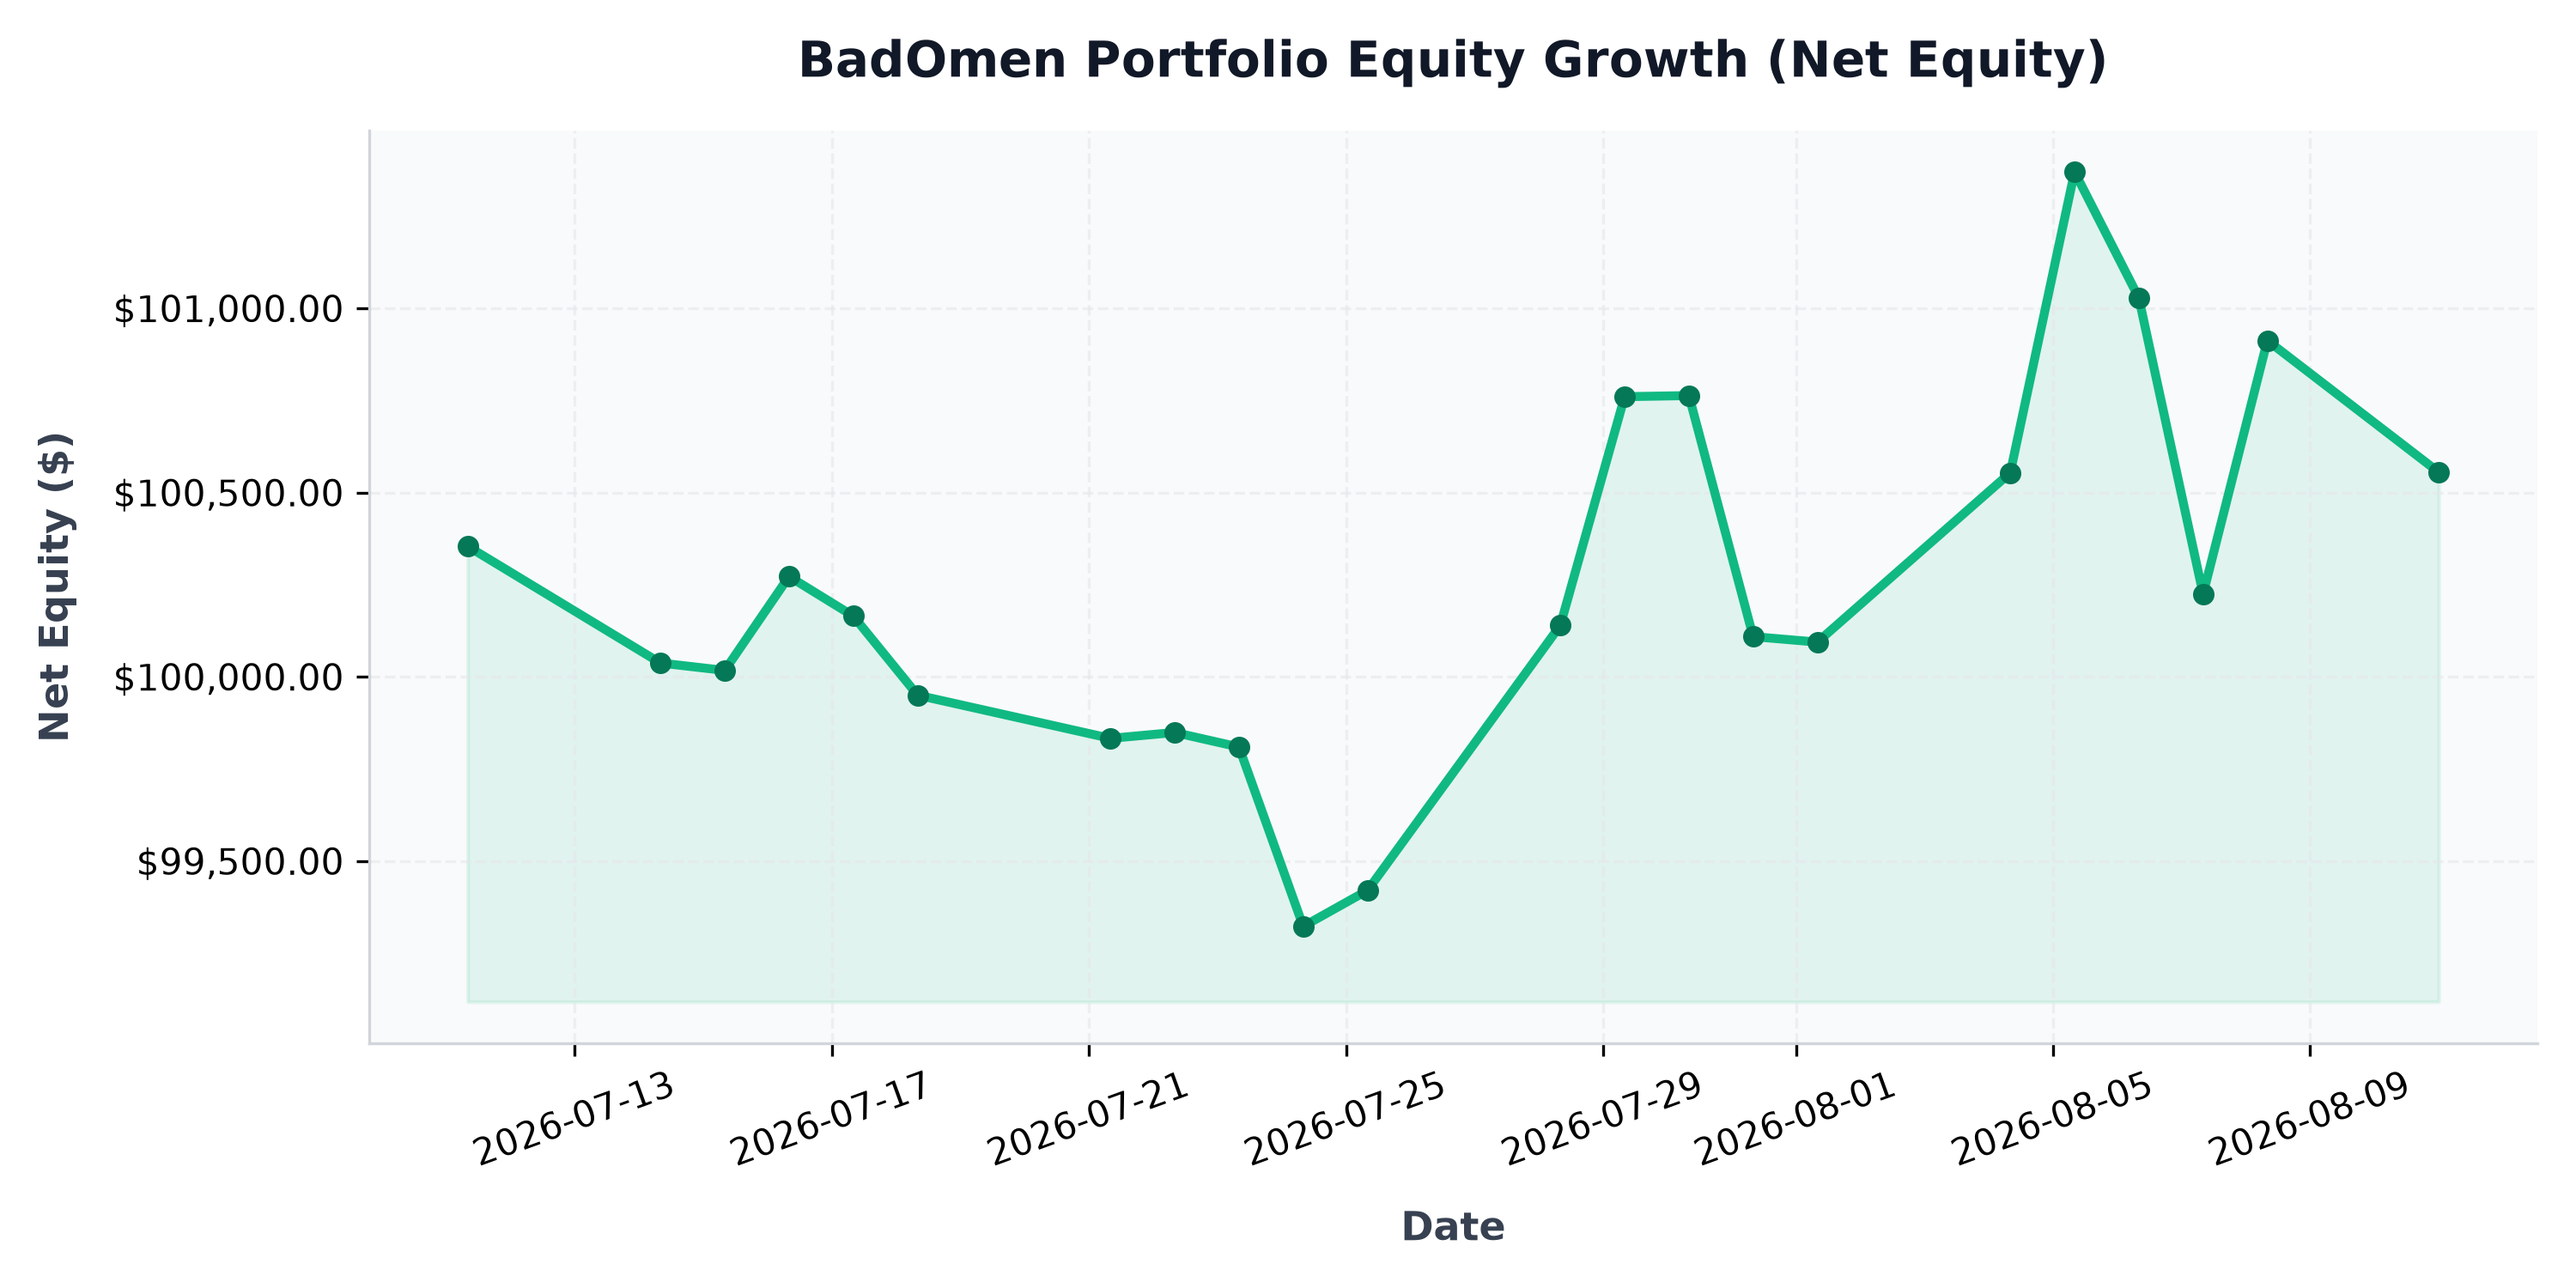
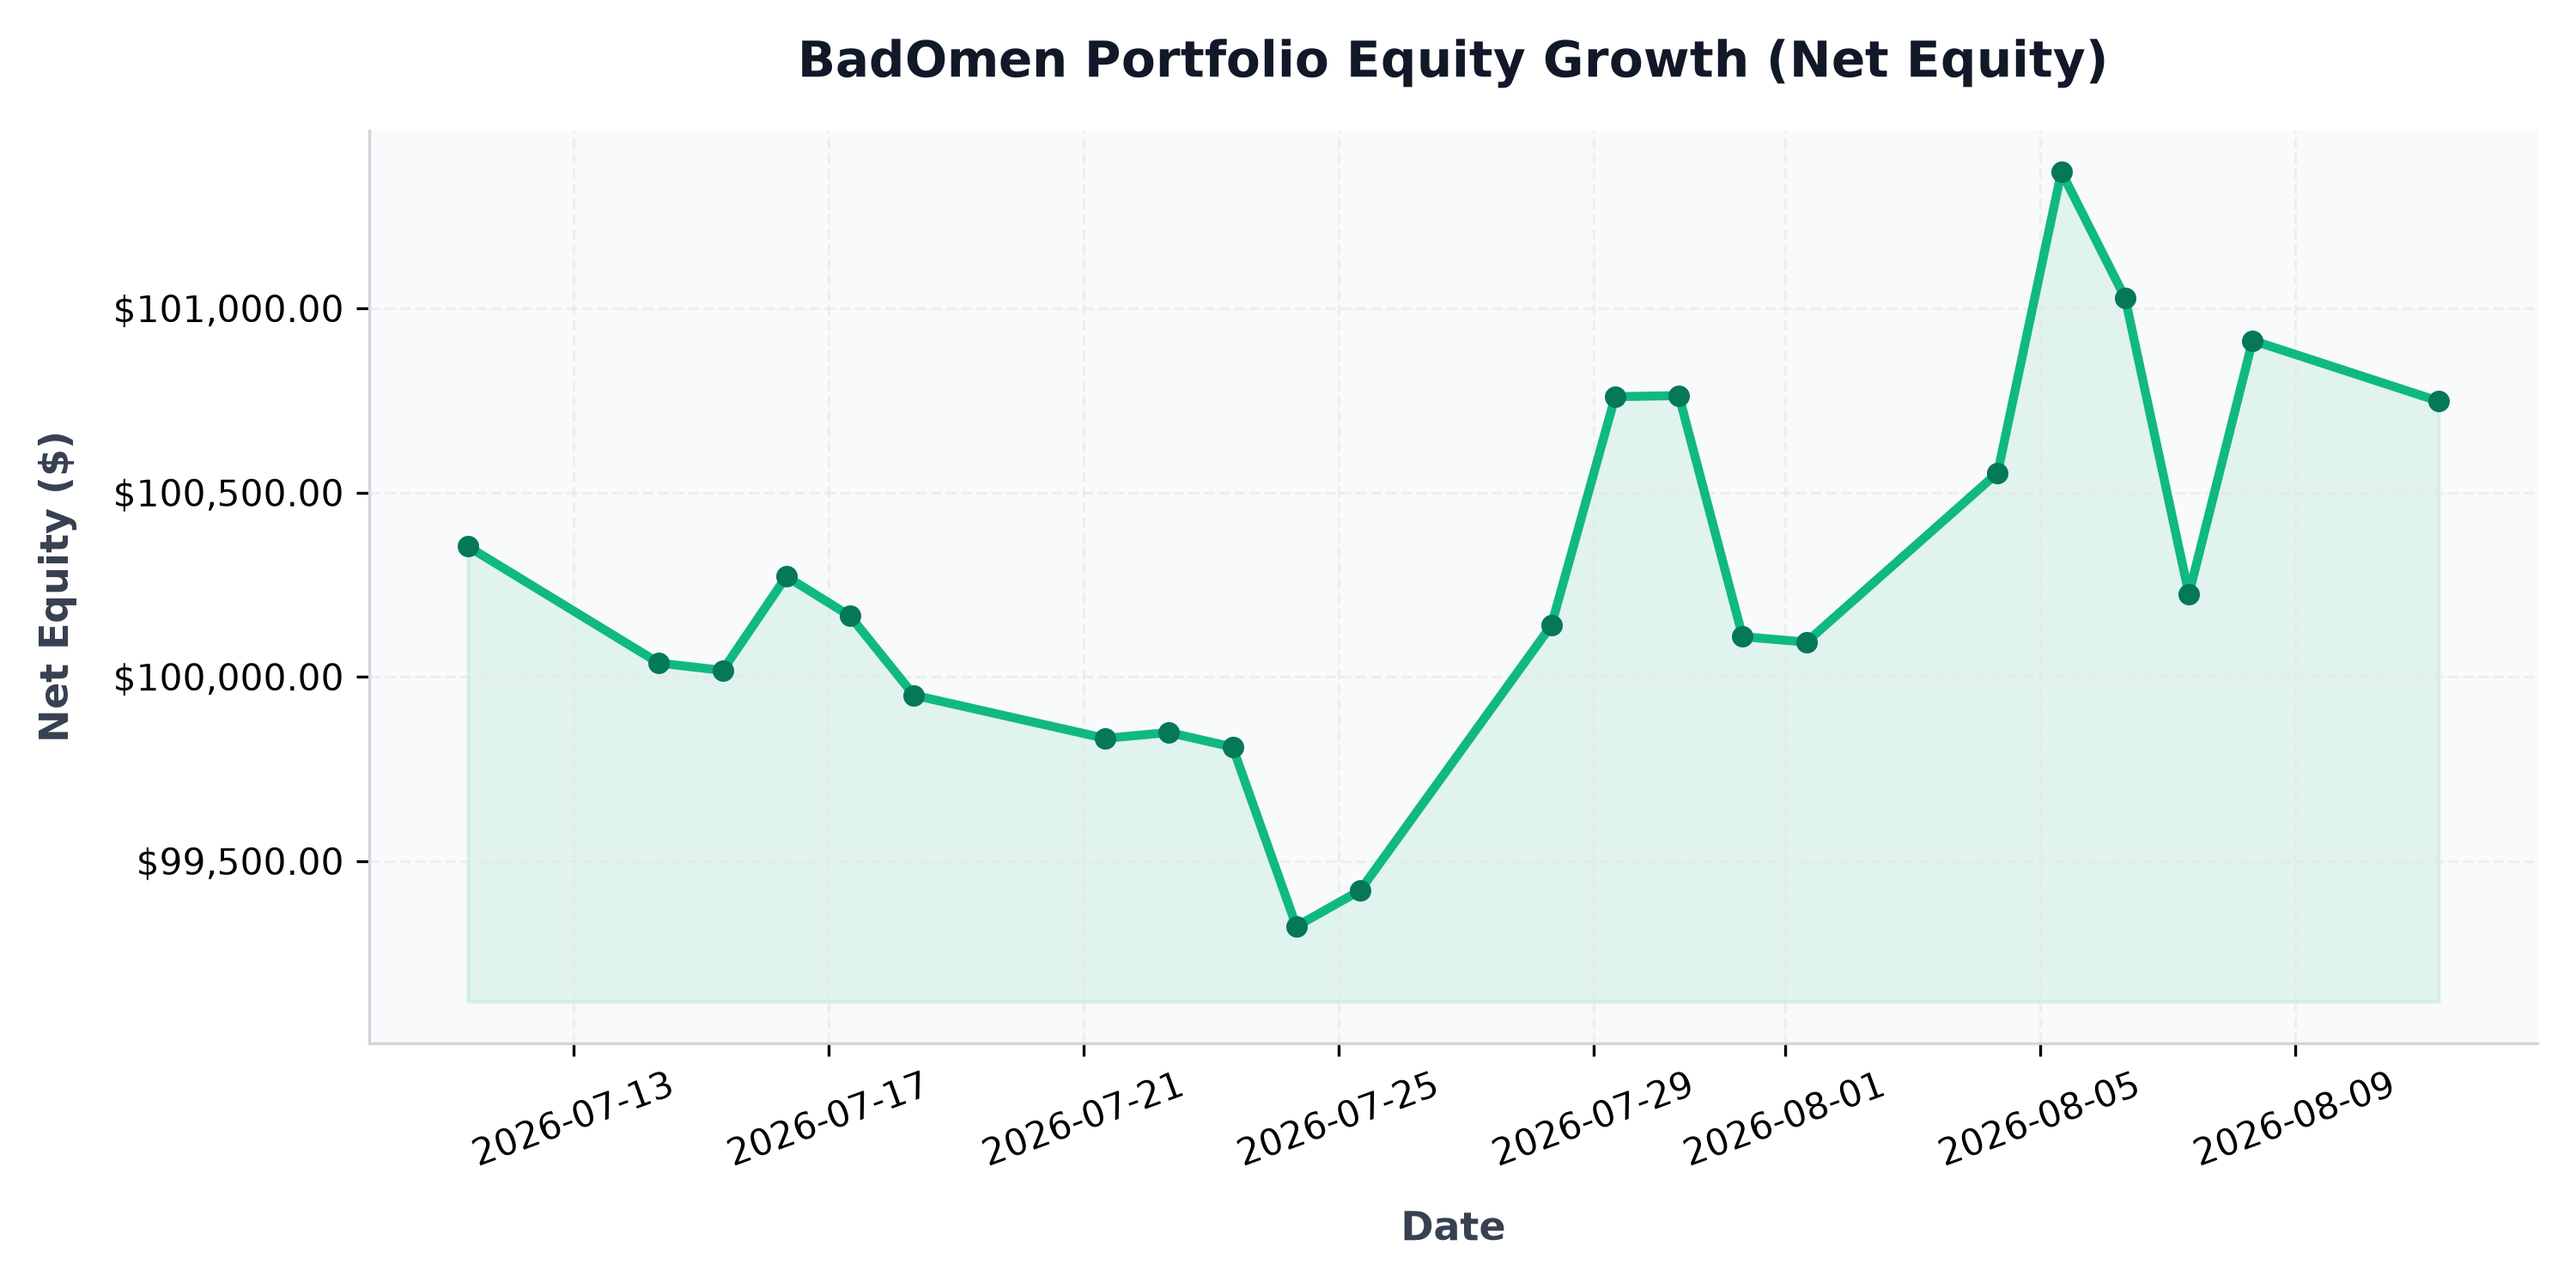
auto: daily portfolio status update - 2026-08-11 06:05:13

diff --git a/src/content/posts/portfolio-performance.md b/src/content/posts/portfolio-performance.md
@@ -1,6 +1,6 @@
 ---
 title: "BadOmen Algorithmic Portfolio Performance & PnL Report"
-pubDatetime: 2026-08-11T00:00:13.363967+08:00
+pubDatetime: 2026-08-11T06:05:12.995396+08:00
 description: "Live performance metrics, active holdings, and historic equity curve for the BadOmen automated paper trading portfolio."
 featured: true
 draft: false
@@ -16,11 +16,11 @@ Welcome to the live performance dashboard for **BadOmen**, our automated algorit
 ## 📊 Portfolio Summary
 | Performance Metric | Value | description |
 | :--- | :--- | :--- |
-| **Net Portfolio Equity** | **$100,555.09** | Total current liquidation value of cash and stock holdings |
-| **Total Unrealized P&L** | 🔴 **$-104.34** (-0.10%) | Total return of current open holdings |
+| **Net Portfolio Equity** | **$100,747.97** | Total current liquidation value of cash and stock holdings |
+| **Total Unrealized P&L** | 🟢 **+$88.91** (+0.09%) | Total return of current open holdings |
 | **Cash Balance** | $57,887.88 | Idle reserve currency available for limit orders |
-| **Buying Power** | $335,756.48 | Margin-backed buying power for entry allocations |
-| **Report Updated** | `2026-08-11 00:00:13 (SGT)` | Timestamp of daily execution and sync run |
+| **Buying Power** | $336,296.53 | Margin-backed buying power for entry allocations |
+| **Report Updated** | `2026-08-11 06:05:12 (SGT)` | Timestamp of daily execution and sync run |
 
 ## 📈 Net Equity Growth Curve
 The chart below illustrates the historical performance of the account starting from our baseline capital funding of $100,000.00.
@@ -35,34 +35,34 @@ The chart below illustrates the exposure of our currently held active positions 
 ## 💼 Current Position Holdings
 | Ticker | Industry | Shares Owned | Average Entry Cost | Current Price | Unrealized P&L | Return (%) |
 | :--- | :--- | :--- | :--- | :--- | :--- | :--- |
-| **AN** | Auto & Truck Dealerships | 5 | $188.51 | $208.34 | 🟢 +$99.16 | +10.52% |
-| **AVGO** | Semiconductors | 1 | $385.71 | $427.28 | 🟢 +$41.57 | +10.78% |
-| **BLBD** | Farm & Heavy Construction Machinery | 148 | $67.64 | $64.66 | 🔴 $-440.92 | -4.41% |
-| **BVN** | Other Precious Metals & Mining | 32 | $31.88 | $34.54 | 🟢 +$85.28 | +8.36% |
-| **CELH** | Beverages - Non-Alcoholic | 33 | $29.71 | $26.85 | 🔴 $-94.45 | -9.63% |
-| **CPRI** | Luxury Goods | 326 | $15.45 | $15.32 | 🔴 $-41.50 | -0.82% |
-| **DUOL** | Software - Application | 14 | $131.04 | $134.89 | 🟢 +$53.84 | +2.94% |
-| **FIS** | Information Technology Services | 23 | $41.79 | $42.41 | 🟢 +$14.38 | +1.50% |
-| **GDDY** | Software - Infrastructure | 6 | $76.21 | $91.19 | 🟢 +$89.88 | +19.66% |
-| **GDS** | Information Technology Services | 30 | $32.77 | $31.34 | 🔴 $-43.05 | -4.38% |
-| **GGAL** | Banks - Regional | 17 | $56.04 | $45.90 | 🔴 $-172.41 | -18.10% |
-| **GOOGL** | Internet Content & Information | 3 | $319.44 | $354.29 | 🟢 +$104.55 | +10.91% |
-| **GPI** | Auto & Truck Dealerships | 3 | $316.15 | $263.97 | 🔴 $-156.54 | -16.50% |
-| **HUBS** | Software - Application | 8 | $221.18 | $213.63 | 🔴 $-60.41 | -3.41% |
-| **ITRI** | Scientific & Technical Instruments | 12 | $81.80 | $103.24 | 🟢 +$257.28 | +26.21% |
-| **KBR** | Engineering & Construction | 27 | $36.23 | $38.38 | 🟢 +$57.97 | +5.93% |
-| **META** | Internet Content & Information | 1 | $568.17 | $599.70 | 🟢 +$31.53 | +5.55% |
-| **NESR** | Oil & Gas Equipment & Services | 34 | $28.74 | $34.43 | 🟢 +$193.46 | +19.80% |
-| **NU** | Banks - Regional | 85 | $11.60 | $13.93 | 🟢 +$197.75 | +20.06% |
-| **ON** | Semiconductors | 10 | $90.45 | $81.16 | 🔴 $-92.95 | -10.28% |
-| **ORCL** | Software - Infrastructure | 5 | $181.95 | $149.94 | 🔴 $-160.05 | -17.59% |
-| **PATH** | Software - Infrastructure | 38 | $10.25 | $15.30 | 🟢 +$192.09 | +49.32% |
-| **PYPL** | Credit Services | 17 | $56.05 | $58.62 | 🟢 +$43.60 | +4.58% |
-| **QCOM** | Semiconductors | 15 | $193.68 | $164.24 | 🔴 $-441.67 | -15.20% |
-| **SMCI** | Computer Hardware | 33 | $29.25 | $32.45 | 🟢 +$105.60 | +10.94% |
-| **T** | Telecom Services | 47 | $20.85 | $23.80 | 🟢 +$138.88 | +14.17% |
-| **WEN** | Restaurants | 257 | $8.02 | $7.33 | 🔴 $-179.34 | -8.70% |
-| **ZG** | Internet Content & Information | 31 | $31.35 | $33.68 | 🟢 +$72.13 | +7.42% |
+| **AN** | Auto & Truck Dealerships | 5 | $188.51 | $208.09 | 🟢 +$97.91 | +10.39% |
+| **AVGO** | Semiconductors | 1 | $385.71 | $422.00 | 🟢 +$36.29 | +9.41% |
+| **BLBD** | Farm & Heavy Construction Machinery | 148 | $67.64 | $65.33 | 🔴 $-341.76 | -3.41% |
+| **BVN** | Other Precious Metals & Mining | 32 | $31.88 | $34.58 | 🟢 +$86.56 | +8.49% |
+| **CELH** | Beverages - Non-Alcoholic | 33 | $29.71 | $27.16 | 🔴 $-84.24 | -8.59% |
+| **CPRI** | Luxury Goods | 326 | $15.45 | $15.43 | 🔴 $-5.64 | -0.11% |
+| **DUOL** | Software - Application | 14 | $131.04 | $135.55 | 🟢 +$63.11 | +3.44% |
+| **FIS** | Information Technology Services | 23 | $41.79 | $42.29 | 🟢 +$11.50 | +1.20% |
+| **GDDY** | Software - Infrastructure | 6 | $76.21 | $91.50 | 🟢 +$91.74 | +20.06% |
+| **GDS** | Information Technology Services | 30 | $32.77 | $31.50 | 🔴 $-38.10 | -3.88% |
+| **GGAL** | Banks - Regional | 17 | $56.04 | $46.42 | 🔴 $-163.53 | -17.16% |
+| **GOOGL** | Internet Content & Information | 3 | $319.44 | $357.26 | 🟢 +$113.46 | +11.84% |
+| **GPI** | Auto & Truck Dealerships | 3 | $316.15 | $265.55 | 🔴 $-151.80 | -16.00% |
+| **HUBS** | Software - Application | 8 | $221.18 | $215.85 | 🔴 $-42.65 | -2.41% |
+| **ITRI** | Scientific & Technical Instruments | 12 | $81.80 | $102.63 | 🟢 +$249.96 | +25.46% |
+| **KBR** | Engineering & Construction | 27 | $36.23 | $38.29 | 🟢 +$55.54 | +5.68% |
+| **META** | Internet Content & Information | 1 | $568.17 | $594.31 | 🟢 +$26.14 | +4.60% |
+| **NESR** | Oil & Gas Equipment & Services | 34 | $28.74 | $35.90 | 🟢 +$243.44 | +24.91% |
+| **NU** | Banks - Regional | 85 | $11.60 | $13.86 | 🟢 +$192.38 | +19.51% |
+| **ON** | Semiconductors | 10 | $90.45 | $80.00 | 🔴 $-104.55 | -11.56% |
+| **ORCL** | Software - Infrastructure | 5 | $181.95 | $149.85 | 🔴 $-160.50 | -17.64% |
+| **PATH** | Software - Infrastructure | 38 | $10.25 | $15.50 | 🟢 +$199.50 | +51.22% |
+| **PYPL** | Credit Services | 17 | $56.05 | $58.79 | 🟢 +$46.58 | +4.89% |
+| **QCOM** | Semiconductors | 15 | $193.68 | $162.95 | 🔴 $-461.02 | -15.87% |
+| **SMCI** | Computer Hardware | 33 | $29.25 | $31.75 | 🟢 +$82.50 | +8.55% |
+| **T** | Telecom Services | 47 | $20.85 | $24.01 | 🟢 +$148.74 | +15.18% |
+| **WEN** | Restaurants | 257 | $8.02 | $7.30 | 🔴 $-186.87 | -9.06% |
+| **ZG** | Internet Content & Information | 31 | $31.35 | $34.07 | 🟢 +$84.22 | +8.67% |
 
 ## 🔴 Recent Realized Trades
 | Ticker | Shares Sold | Entry Price | Exit Price | Strategy Trigger | Realized Return | Exit Date |
